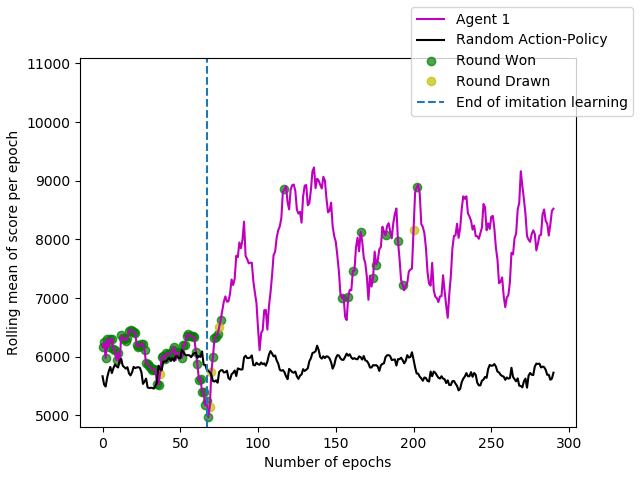
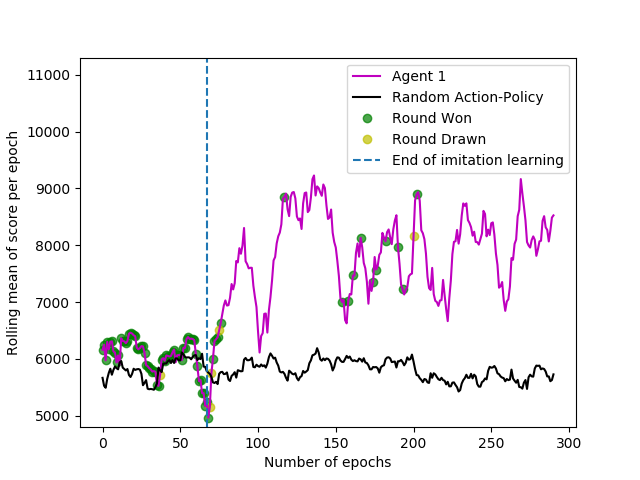
wrok

diff --git a/misc/plot_game_result.py b/misc/plot_game_result.py
@@ -251,9 +251,10 @@ def plot_game_res(dir, name, ylabel, xlabel='Number of epochs'):
     plt.xlabel(xlabel)
     plt.ylabel(ylabel)
 
-    plt.axvline(x=67, label="End of imitation learning", linestyle='--')
-    plt.ylim(4800, 11100)
-    plt.legend(loc="upper right")
+    # plt.axvline(x=67, label="End of imitation learning", linestyle='--')
+    plt.ylim(4800, 11300)
+    plt.legend()
+    # plt.figlegend()
     save_fig(name + ".png", "")
 
     plt.show()
@@ -263,4 +264,5 @@ def plot_game_res(dir, name, ylabel, xlabel='Number of epochs'):
 # plot_game_res("../Data/game/sc2_score/train", ylabel='Accumulated wins', name='accumulated_wins')
 
 # Sc2 score
-plot_game_res("../Data/game/sc2_score/imi", ylabel='Rolling mean of score per epoch', name='imi_sc2_score_window_100')
+plot_game_res("../Data/game/sc2_score/imi", ylabel='Rolling mean of score per epoch',
+              name='sc2_score_window_100_long_axis')
